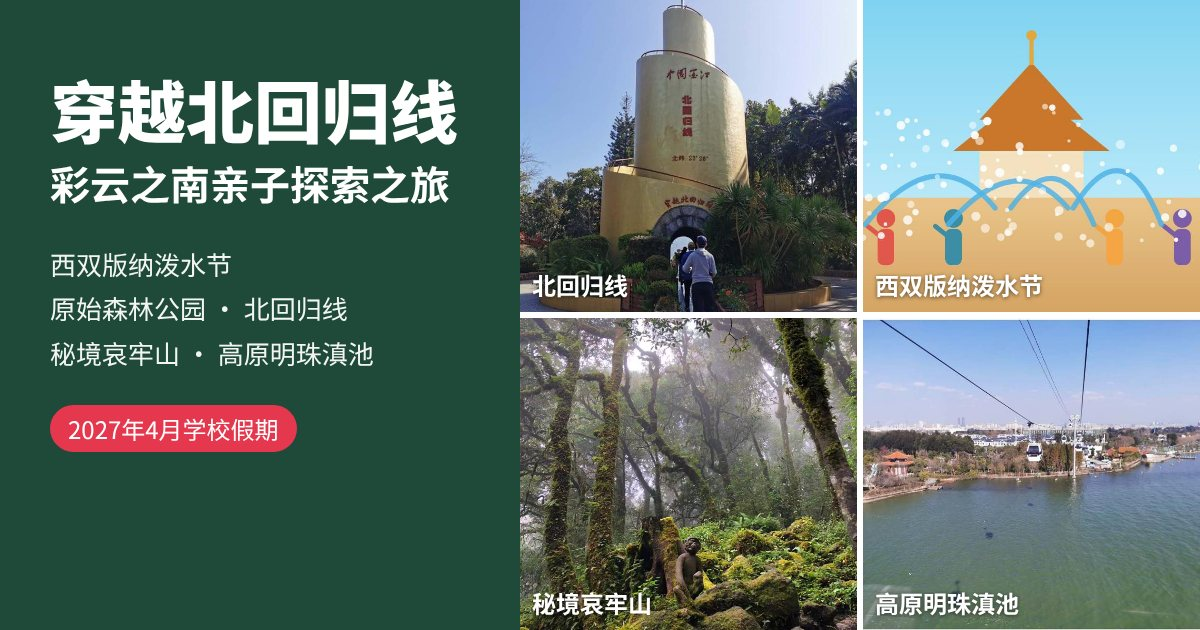
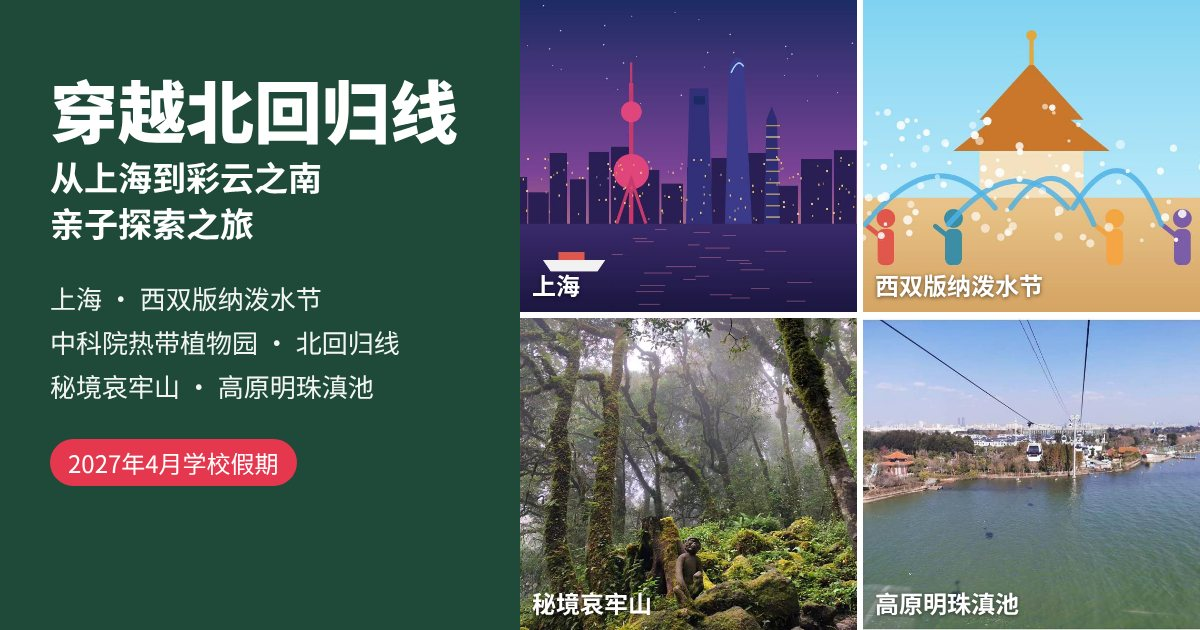
Yunnan trip v9: Shanghai 2 days, fly to Xishuangbanna, botanical garden, Kunming by Green Lake with Yangzonghai hot spring, home via Guangzhou
Claude-Session: https://claude.ai/code/session_018MHxWtUL15psGLoRzbd35R

Changed region(s): [[0.4317, 0.0, 0.74, 0.5127], [0.0308, 0.2413, 0.37, 0.7841]]

diff --git a/yunnan-mojiang-en.html b/yunnan-mojiang-en.html
@@ -3,7 +3,7 @@
 <head>
 <meta charset="utf-8">
 <meta name="viewport" content="width=device-width, initial-scale=1, viewport-fit=cover">
-<title>Crossing the Northern Tropic: Yunnan April Holiday Family Adventure · Adventures with Grace</title>
+<title>Crossing the Northern Tropic: From Shanghai to Yunnan, April Holiday Family Adventure · Adventures with Grace</title>
 <style>
 :root{--bg:#f6f7f4;--card:#fff;--text:#1d2420;--sub:#66706a;--accent:#2f7d5b;--accent-t:#fff;--line:#e3e7e2;box-sizing:border-box;padding-top:env(safe-area-inset-top,0px);padding-bottom:env(safe-area-inset-bottom,0px)}
 @media (prefers-color-scheme:dark){:root:not([data-theme="light"]){--bg:#121815;--card:#1b231f;--text:#eef2ef;--sub:#9aa7a0;--accent:#4fb88a;--accent-t:#08150f;--line:#2a352f}}
@@ -36,9 +36,9 @@ details ul{margin:6px 0 0;padding-left:18px;color:var(--sub);font-size:14px;line
 .gallery figcaption{font-size:13px;opacity:.75;margin-top:4px}
 .credit{font-size:13px;opacity:.75;margin-top:10px}
 </style>
-<meta name="description" content="April 2027 school holidays: the Water-Splashing Festival in Xishuangbanna, a rainforest trek, little farmers in Mojiang, the misty forests of the Ailao Mountains, then the Stone Forest and flower markets of Kunming.">
-<meta property="og:title" content="Crossing the Northern Tropic: Yunnan April Holiday Family Adventure · Adventures with Grace">
-<meta property="og:description" content="April 2027 school holidays: the Water-Splashing Festival in Xishuangbanna, a rainforest trek, little farmers in Mojiang, the misty forests of the Ailao Mountains, then the Stone Forest and flower markets of Kunming.">
+<meta name="description" content="April 2027 school holidays: Shanghai, the Water-Splashing Festival and Tropical Botanical Garden in Xishuangbanna, little farmers in Mojiang, the misty Ailao Mountains, the Stone Forest and a hot spring near Kunming, and dim sum in Guangzhou on the way home.">
+<meta property="og:title" content="Crossing the Northern Tropic: From Shanghai to Yunnan, April Holiday Family Adventure · Adventures with Grace">
+<meta property="og:description" content="April 2027 school holidays: Shanghai, the Water-Splashing Festival and Tropical Botanical Garden in Xishuangbanna, little farmers in Mojiang, the misty Ailao Mountains, the Stone Forest and a hot spring near Kunming, and dim sum in Guangzhou on the way home.">
 <meta property="og:image" content="https://graceleizhang.github.io/grace-events/yunnan-mojiang-cover.jpg">
 <meta property="og:url" content="https://graceleizhang.github.io/grace-events/yunnan-mojiang-en.html">
 <meta property="og:type" content="website">
@@ -47,11 +47,11 @@ details ul{margin:6px 0 0;padding-left:18px;color:var(--sub);font-size:14px;line
 <div style="display:none"><img src="https://graceleizhang.github.io/grace-events/yunnan-mojiang-thumb.jpg" alt=""></div>
 <main>
   <p>Adventures with Grace</p>
-  <h1>Crossing the Northern Tropic<br>Yunnan April Holiday Family Adventure 🌈</h1>
-  <p style="font-weight:700;color:var(--accent);margin-bottom:8px">April 2027 school holidays · Xishuangbanna Water Festival · Primeval Forest Park · Northern Tropic · the mysterious Ailao Mountains · Dian Lake, Pearl of the Plateau</p>
-  <p>Head north from the rainforests of Xishuangbanna, cross the Northern Tropic (23.5°N, where the summer sun shines straight overhead) in Mojiang and finish in Kunming, the City of Eternal Spring 🧭<br>Take the kids to a real Dai New Year Water-Splashing Festival in Xishuangbanna, China. No need to fight over water pistols: the whole city is the battlefield, and the wetter you get, the more blessings you receive 💦<br>Trek through the Jinuo Mountain rainforest, wading up streams and swinging on vines; be little farmers in Mojiang, picking tea, catching fish and planting rice, and make friends at a local high school; then walk into the misty old-growth forest of the Ailao Mountains and see Huayao Dai embroidery. We finish in Kunming with the Stone Forest, a hot spring, grass sledding, laser tag and Asia’s biggest flower market 🌺</p>
+  <h1>Crossing the Northern Tropic<br>From Shanghai to Yunnan: April Holiday Family Adventure 🌈</h1>
+  <p style="font-weight:700;color:var(--accent);margin-bottom:8px">April 2027 school holidays · Shanghai · Xishuangbanna Water Festival · Tropical Botanical Garden (5A) · Northern Tropic · the mysterious Ailao Mountains · Dian Lake, Pearl of the Plateau</p>
+  <p>Start in Shanghai, fly south to the rainforests of Xishuangbanna, then head north, cross the Northern Tropic (23.5°N, where the summer sun shines straight overhead) in Mojiang, reach Kunming, the City of Eternal Spring, and fly home via Guangzhou 🧭<br>Go up China’s tallest building and explore the gaming and pop-culture side of Shanghai; then join a real Dai New Year Water-Splashing Festival in Xishuangbanna. No need to fight over water pistols: the whole city is the battlefield, and the wetter you get, the more blessings you receive 💦<br>Explore the Chinese Academy of Sciences’ Tropical Botanical Garden (a national 5A site) and see the rainforest from the textbooks; be little farmers in Mojiang, picking tea, catching fish and planting rice, and make friends at a local high school; then walk into the misty old-growth forest of the Ailao Mountains and see Huayao Dai embroidery. In Kunming: the Stone Forest, a hot spring, grass sledding, laser tag and Asia’s biggest flower market 🌺 And a day in Guangzhou on the way home for proper dim sum 🥟</p>
   <p style="margin-top:8px">📌 The itinerary may change slightly depending on flights, weather and local conditions; the final version will be confirmed before departure.</p>
-  <p style="margin-top:8px">🇨🇳 Friends coming from within China are welcome to meet us in Kunming.</p>
+  <p style="margin-top:8px">🇨🇳 Friends coming from within China are welcome to meet us in Shanghai, Xishuangbanna or Kunming.</p>
 
   <h2>🎨 What we’ll see</h2>
   <div class="gallery"><figure><img src="img/yunnan/p_mossforest.jpg" alt="Ailao Mountains: a moss-covered old-growth forest, straight out of a fairy tale" loading="lazy"><figcaption>Ailao Mountains: a moss-covered old-growth forest, straight out of a fairy tale 📷</figcaption></figure><figure><img src="img/yunnan/p_mj_tower.jpg" alt="The Northern Tropic! One foot in the tropics, one in the temperate zone" loading="lazy"><figcaption>The Northern Tropic! One foot in the tropics, one in the temperate zone 📷</figcaption></figure><figure><img src="img/yunnan/p_dianchi.jpg" alt="“Five hundred li of Dian Lake rush before my eyes” – from China’s longest couplet at Grand View Tower" loading="lazy"><figcaption>“Five hundred li of Dian Lake rush before my eyes” – from China’s longest couplet at Grand View Tower 📷</figcaption></figure><figure><img src="img/yunnan/p_mountain.jpg" alt="Mist drifting over the Ailao Mountains in the morning" loading="lazy"><figcaption>Mist drifting over the Ailao Mountains in the morning 📷</figcaption></figure><figure><img src="img/yunnan/p_shilin_climb.jpg" alt="The Stone Forest: a seabed 270 million years ago, now a World Heritage site" loading="lazy"><figcaption>The Stone Forest: a seabed 270 million years ago, now a World Heritage site 📷</figcaption></figure><figure><img src="img/yunnan/p_mj_slide.jpg" alt="The rainbow “flying carpet” slide – go!" loading="lazy"><figcaption>The rainbow “flying carpet” slide – go! 📷</figcaption></figure><figure><img src="img/yunnan/p_teahouse.jpg" alt="An old Tea Horse Road stop with its ancient-tree tea house" loading="lazy"><figcaption>An old Tea Horse Road stop with its ancient-tree tea house 📷</figcaption></figure><figure><img src="img/yunnan/p_sl_sky.jpg" alt="Look up: stone peaks pointing at the sky" loading="lazy"><figcaption>Look up: stone peaks pointing at the sky 📷</figcaption></figure><figure><img src="img/yunnan/splash.jpg" alt="Dai New Year: every splash is a blessing, so the wetter the better 💦 (illustration – photo to be updated)" loading="lazy"><figcaption>Dai New Year: every splash is a blessing, so the wetter the better 💦 (illustration – photo to be updated)</figcaption></figure><figure><img src="img/yunnan/p_mj_sundial.jpg" alt="Standing on the Northern Tropic – where’s your shadow?" loading="lazy"><figcaption>Standing on the Northern Tropic – where’s your shadow? 📷</figcaption></figure><figure><img src="img/yunnan/p_mj_planet.jpg" alt="Stars and the sun’s path at the planetarium" loading="lazy"><figcaption>Stars and the sun’s path at the planetarium 📷</figcaption></figure><figure><img src="img/yunnan/p_waterwheel.jpg" alt="A giant wooden waterwheel at an old caravan stop" loading="lazy"><figcaption>A giant wooden waterwheel at an old caravan stop 📷</figcaption></figure><figure><img src="img/yunnan/p_dragons.jpg" alt="Twin-dragon arches chasing a pearl" loading="lazy"><figcaption>Twin-dragon arches chasing a pearl 📷</figcaption></figure><figure><img src="img/yunnan/p_oldstreet.jpg" alt="Bixi Old Town, on the old Tea Horse Road" loading="lazy"><figcaption>Bixi Old Town, on the old Tea Horse Road 📷</figcaption></figure><figure><img src="img/yunnan/p_mj_totem.jpg" alt="Hani totem poles – each one tells a story" loading="lazy"><figcaption>Hani totem poles – each one tells a story 📷</figcaption></figure><figure><img src="img/yunnan/p_mj_street.jpg" alt="Mojiang streets: say “Hani”!" loading="lazy"><figcaption>Mojiang streets: say “Hani”! 📷</figcaption></figure><figure><img src="img/yunnan/p_mj_wenmiao.jpg" alt="Mojiang Confucian temple – a bow to Confucius before exams" loading="lazy"><figcaption>Mojiang Confucian temple – a bow to Confucius before exams 📷</figcaption></figure><figure><img src="img/yunnan/p_mj_lamp.jpg" alt="Wandering a Hani lane" loading="lazy"><figcaption>Wandering a Hani lane 📷</figcaption></figure><figure><img src="img/yunnan/p_mj_noodle.jpg" alt="A bowl of rice noodles: how Yunnan starts the day" loading="lazy"><figcaption>A bowl of rice noodles: how Yunnan starts the day 📷</figcaption></figure><figure><img src="img/yunnan/p_teatrail.jpg" alt="The Tea Horse Road in the Ailao Mountains, once walked by Pu’er tea caravans" loading="lazy"><figcaption>The Tea Horse Road in the Ailao Mountains, once walked by Pu’er tea caravans 📷</figcaption></figure><figure><img src="img/yunnan/p_tea.jpg" alt="Tea among the hills – a holiday for the grown-ups too" loading="lazy"><figcaption>Tea among the hills – a holiday for the grown-ups too 📷</figcaption></figure><figure><img src="img/yunnan/p_food.jpg" alt="Yunnan home cooking – you’ll want seconds" loading="lazy"><figcaption>Yunnan home cooking – you’ll want seconds 📷</figcaption></figure><figure><img src="img/yunnan/p_corridor.jpg" alt="Lanterns along the bamboo walkway after a long day" loading="lazy"><figcaption>Lanterns along the bamboo walkway after a long day 📷</figcaption></figure><figure><img src="img/yunnan/p_cable.jpg" alt="Flying over Dian Lake by cable car" loading="lazy"><figcaption>Flying over Dian Lake by cable car 📷</figcaption></figure><figure><img src="img/yunnan/p_shilin_gate.jpg" alt="The Stone Forest: a forest made of rock" loading="lazy"><figcaption>The Stone Forest: a forest made of rock 📷</figcaption></figure><figure><img src="img/yunnan/p_shilin_arch.jpg" alt="Through the stone arch to find “Ashima”" loading="lazy"><figcaption>Through the stone arch to find “Ashima” 📷</figcaption></figure><figure><img src="img/yunnan/p_shilin_back.jpg" alt="Narrow paths between the rocks, like a maze" loading="lazy"><figcaption>Narrow paths between the rocks, like a maze 📷</figcaption></figure></div>
@@ -60,33 +60,38 @@ details ul{margin:6px 0 0;padding-left:18px;color:var(--sub);font-size:14px;line
   <h2>Trip details</h2>
   <div class="card">
     <span class="tag">Registrations open</span>
-    <h3>🌈 Crossing the Northern Tropic: Yunnan April Holiday Family Adventure</h3>
+    <h3>🌈 Crossing the Northern Tropic: From Shanghai to Yunnan, April Holiday Family Adventure</h3>
     <p><strong>Kids:</strong> here to get soaked and muddy. Water fights, tea picking, fishing, rice planting, and a few new friends in Yunnan.<br><strong>Parents:</strong> here to watch them have the time of their lives. Routes, trains and drivers are all sorted, so you just take the photos 📸</p>
     <div class="row"><span>Dates</span><span>Depart Saturday 10 April 2027 (evening)<br>Back in Sydney Tuesday 27 April (morning)<br>During the NSW autumn school holidays (public schools return 29 April)<br>Exact times depend on flights and the group fare</span></div>
-    <div class="row"><span>Route</span><span>Kunming → Xishuangbanna → Mojiang → Ailao Mountains (Gasa) → Kunming</span></div>
+    <div class="row"><span>Route</span><span>Sydney → Shanghai → Xishuangbanna → Mojiang → Ailao Mountains (Gasa) → Kunming → Guangzhou → Sydney</span></div>
     <div class="row"><span>Group</span><span>4–5 families</span></div>
-    <div class="row"><span>Getting around</span><span>Bullet trains between cities (Kunming to Xishuangbanna is only 3.5 hours); private bus on the expressway from Mojiang to the Ailao Mountains and back to Kunming. Xishuangbanna and Kunming are arranged by Grace’s old classmate, who runs a travel agency there; Grace arranges Mojiang with local contacts</span></div>
+    <div class="row"><span>Getting around</span><span>Direct flight from Shanghai to Xishuangbanna; bullet train from Xishuangbanna to Mojiang; private bus on the expressway from Mojiang to the Ailao Mountains and back to Kunming; fly Kunming to Guangzhou, then home to Sydney. Xishuangbanna and Kunming are arranged by licensed local travel agencies; Grace arranges Mojiang with local contacts</span></div>
     <div class="row"><span>What kind of trip</span><span>Not a tour – a few families exploring together<br>Local feasts along the way, plus some free meals to eat what you like 🍽<br>No compulsory shopping stops; anyone keen on gold, silver or jade can visit a reputable shop if they wish<br>Everything at cost; Grace charges no fee</span></div>
     <details open>
       <summary>🗓 Itinerary</summary>
       <ul>
-        <li><strong>Sat 10 Apr</strong> Evening departure from Sydney, changing planes in Shanghai ✈</li>
-        <li><strong>Sun 11 Apr</strong> Afternoon arrival in Kunming; one night there<br>🍽 Crossing-the-bridge rice noodles – our first taste of Yunnan</li>
-        <li><strong>Mon 12 Apr</strong> Early train to Xishuangbanna; we stay near Gaozhuang<br>🍽 Free evening: graze your way around the Gaozhuang night market – leaf-wrapped grilled meats, bamboo-tube rice, pineapple rice</li>
-        <li><strong>Tue 13 Apr</strong> Festival day one: afternoon riverside market, dragon-boat races and bamboo rockets, then thousands of sky lanterns and river lanterns at night 🏮<br>🍽 Dai home cooking</li>
-        <li><strong>Wed 14 Apr</strong> Menglun Tropical Botanical Garden – China’s largest, with nearly 10,000 tropical plants in palm, banyan and dragon-blood-tree gardens 🌴 Afternoon at the Primeval Forest Park: peacocks taking flight 🦚, a waterfall, an Aini village and ethnic dances, plus a jungle zipline for the brave. At dusk, dress up in Dai clothes for photos at the Golden Pagoda<br>🍽 <b>Peacock Feast</b>: a Dai banquet laid out on banana leaves like a peacock’s tail – lemongrass fish, Dai roast chicken, purple rice (no peacocks involved 😄)</li>
-        <li><strong>Thu 15 Apr</strong> Festival day: the river water-collecting and Buddha-bathing ceremonies in the morning, then the whole city gets splashed 💦 Afternoon at the Dai Ethnic Garden for a village-style water fight<br>🍽 Home-style Dai lunch after the splashing</li>
-        <li><strong>Fri 16 Apr</strong> Jinuo Mountain rainforest trek: 4.5 km of wading up streams and rock-hopping across rivers, with a guide clearing the way with a machete and pointing out rainforest creatures such as giant orb spiders and firefly larvae 🌿 Swing on vines above the stream, drink water from a jungle vine and try banana-stem snacks<br>🍽 <b>Rainforest feast</b>: soup in bamboo cups and dishes on banana leaves – ants, flowers and dew for the brave 🐜</li>
-        <li><strong>Sat 17 Apr</strong> Early train to Mojiang; afternoon spring tea picking and fishing in a muddy pond 🐟<br>🍽 <b>Hani village feast</b>: Mojiang purple rice, plus the fish we caught that day; then dance around a bonfire with our Hani hosts 🔥</li>
+        <li><strong>Sat 10 Apr</strong> Evening departure from Sydney (China Eastern, 9:30 pm) ✈</li>
+        <li><strong>🏙 Shanghai: tech, gaming and Chinese pop culture</strong></li>
+        <li><strong>Sun 11 Apr</strong> Old Shanghai and neon nights: land early and rest at the hotel. In the afternoon, go up to the 118th-floor observation deck of Shanghai Tower, China’s tallest building, for views over the Huangpu River 🏙 At dusk, take the 2-yuan ferry across to the Bund to watch the old waterfront light up, then stroll Nanjing Road and try the latest tech at the Apple and Huawei flagship stores<br>🍽 Free meal</li>
+        <li><strong>Mon 12 Apr</strong> Chinese pop culture and anime: morning at Yu Garden, which often has game-themed stamp trails – the kids go treasure-hunting with a map while the adults admire the architecture and eat Nanxiang soup dumplings 🥟 Afternoon at Bailian ZX, a whole building of anime, figurines, trading cards and VR games 🎮 Dinner in the lanes of Xintiandi or Tianzifang<br>🍽 Free meal</li>
+        <li><strong>🐘 Xishuangbanna: the Water Festival</strong></li>
+        <li><strong>Tue 13 Apr</strong> Ride the Maglev to Pudong Airport at 300 km/h 🚄 then fly direct to Xishuangbanna. We stay right next to Water-Splashing Square. In the evening, release sky lanterns by the Lancang River and browse the Gaozhuang night market 🏮<br>🍽 Free evening at the night market – leaf-wrapped grilled meats, bamboo-tube rice, pineapple rice</li>
+        <li><strong>Wed 14 Apr</strong> Morning at Wild Elephant Valley to see Asian elephants 🐘 Afternoon at the Primeval Forest Park to watch the peacocks take flight 🦚, and dress up in Dai clothes for photos<br>🍽 <b>Peacock Feast</b>: a Dai banquet laid out on banana leaves like a peacock’s tail – lemongrass fish, Dai roast chicken, purple rice (no peacocks involved 😄)</li>
+        <li><strong>Thu 15 Apr</strong> Festival day 💦 At dawn, the river water-collecting ceremony: young women draw holy water from the Mother River and the blessings begin. Then step outside into Water-Splashing Square and join the whole city for a day-long water fight!<br>🍽 Dai home cooking after the splashing</li>
+        <li><strong>Fri 16 Apr</strong> The Chinese Academy of Sciences’ Xishuangbanna Tropical Botanical Garden (a national 5A site): the poisonous “arrow-poison tree”, giant water lilies strong enough to hold a child, dancing grass and strangler figs – the rainforest from the textbooks 🌿 It’s huge, so we ride the electric carts<br>🍽 Free meal</li>
+        <li><strong>🌾 Mojiang · 🌲 Ailao Mountains</strong></li>
+        <li><strong>Sat 17 Apr</strong> Early bullet train to Mojiang (the only train of the trip); afternoon spring tea picking and fishing in a muddy pond 🐟<br>🍽 <b>Hani village feast</b>: Mojiang purple rice, plus the fish we caught that day; then dance around a bonfire with our Hani hosts 🔥</li>
         <li><strong>Sun 18 Apr</strong> Rice planting; a costume workshop to see embroidery, batik and tie-dye, and tie-dye your own handkerchief 🎨; the Northern Tropic park, with its rainbow “flying carpet” slide and planetarium ☀ Then a sip from the <b>Twins Well</b> – legend says it brings twins 😄<br>🍽 <b>Twins Feast</b>: Mojiang is the “City of Twins”, and every May Day it hosts an international twins festival with more than a thousand pairs of twins from around the world 👯 One day we’ll come back for it!</li>
         <li><strong>Mon 19 Apr</strong> Morning visit to a local high school (see below) 🤝 After lunch, a short hop to <b>Bixi Old Town</b> for a stroll along an old Tea Horse Road street, then the private bus on the expressway to Gasa, at the foot of the Ailao Mountains (about 2 hours)<br>🍽 Free evening meal</li>
         <li><strong>Tue 20 Apr</strong> Ailao Mountains: walk into misty old-growth forest draped in moss, like a fairy tale 🌲 See a waterfall, visit a Huayao Dai village and their heritage embroidery<br>🍽 <b>Huayao Dai feast</b></li>
-        <li><strong>Wed 21 Apr</strong> Morning at the Longxi family manor, then back to Kunming (about 3 hours)<br>🍽 <b>Steam-pot chicken</b></li>
-        <li><strong>Thu 22 Apr</strong> Old Kunming: Green Lake Park → Yunnan Military Academy (where future marshals Zhu De and Ye Jianying studied) → the former campus of Southwest Associated University, China’s famous wartime university → the old streets<br>🍽 Old Kunming street food: <b>erkuai rice cakes</b> and tofu-pudding rice noodles</li>
-        <li><strong>Fri 23 Apr</strong> Western Hills, Dian Lake and Grand View Tower: the Dragon Gate cliff path in the morning, then Grand View Tower to see the “longest couplet in China” – 180 characters. Which kid can memorise it? 😄<br>🍽 <b>Mushroom feast</b></li>
-        <li><strong>Sat 24 Apr</strong> Stone Forest, then a night at a hot-spring hotel ♨<br>🍽 Yiliang roast duck on the way</li>
-        <li><strong>Sun 25 Apr</strong> Morning grass sledding and outdoor laser tag in the hills 🎯 Not your thing? Visit the <b>Yunnan Provincial Museum</b> and its ancient Dian bronzes instead. Dounan Flower Market in the evening 🌺<br>🍽 <b>Flower Feast</b>: dishes cooked with edible flowers – and flower cakes to take home</li>
-        <li><strong>Mon 26 Apr</strong> Midday flight from Kunming via Shanghai</li>
+        <li><strong>Wed 21 Apr</strong> Morning at the Longxi family manor, then back to Kunming (about 3 hours); we stay by Green Lake<br>🍽 <b>Steam-pot chicken</b></li>
+        <li><strong>🌸 Kunming (staying by Green Lake)</strong></li>
+        <li><strong>Thu 22 Apr</strong> Old Kunming: Green Lake Park → Yunnan Military Academy (where future marshals Zhu De and Ye Jianying studied) → the former campus of Southwest Associated University, China’s famous wartime university – all within walking distance. Afternoon at Grand View Tower to see the “longest couplet in China” – 180 characters. Which kid can memorise it? 😄<br>🍽 Old Kunming street food: <b>erkuai rice cakes</b> and tofu-pudding rice noodles</li>
+        <li><strong>Fri 23 Apr</strong> The Stone Forest: a seabed 270 million years ago, now a forest of rock 🪨 On the way back, soak in a hot spring at Yangzonghai Lake ♨, then back to Green Lake for the night<br>🍽 <b>Yiliang roast duck</b></li>
+        <li><strong>Sat 24 Apr</strong> The Dragon Gate cliff path in the Western Hills, looking over Dian Lake; afternoon at Dounan Flower Market 🌺<br>🍽 <b>Flower Feast</b>: dishes cooked with edible flowers – and flower cakes to take home</li>
+        <li><strong>Sun 25 Apr</strong> Morning grass sledding and outdoor laser tag in the hills 🎯 Not your thing? Visit the <b>Yunnan Provincial Museum</b> and its ancient Dian bronzes instead. Evening flight to Guangzhou<br>🍽 <b>Mushroom feast</b> for lunch</li>
+        <li><strong>🥟 Guangzhou</strong></li>
+        <li><strong>Mon 26 Apr</strong> Morning dim sum 🫖, then Shamian Island and the Chen Clan Ancestral Hall in the old Lingnan city; at dusk, the Pearl River and Canton Tower. 9 pm flight home to Sydney</li>
         <li><strong>Tue 27 Apr</strong> Back in Sydney in the morning. NSW public schools return on Thursday 29 April, so there are two days to rest</li>
         <li>The itinerary may change slightly depending on flights, weather and local conditions; the final version will be confirmed before departure</li>
       </ul>
@@ -127,6 +132,7 @@ details ul{margin:6px 0 0;padding-left:18px;color:var(--sub);font-size:14px;line
       <ul>
         <li>Passports must be valid for at least 6 months; we need passport details to book the group fare</li>
         <li>Australian passport holders can currently visit China visa-free – please check the latest rules before departure</li>
+        <li>Families travelling on Chinese or other passports, please check your own visa and Australian re-entry documents</li>
         <li>Each family should take out travel insurance</li>
         <li>Xishuangbanna is hot in April, so bring sunscreen and a hat; Kunming is cool in the mornings and evenings, so pack a jacket</li>
         <li>Water Festival essentials: a waterproof phone pouch, sandals and at least two changes of clothes</li>

diff --git a/yunnan-mojiang.html b/yunnan-mojiang.html
@@ -3,7 +3,7 @@
 <head>
 <meta charset="utf-8">
 <meta name="viewport" content="width=device-width, initial-scale=1, viewport-fit=cover">
-<title>穿越北回归线·彩云之南亲子探索之旅 · 和 Grace 一起去体验</title>
+<title>穿越北回归线·从上海到彩云之南亲子探索之旅 · 和 Grace 一起去体验</title>
 <style>
 :root{--bg:#f6f7f4;--card:#fff;--text:#1d2420;--sub:#66706a;--accent:#2f7d5b;--accent-t:#fff;--line:#e3e7e2;box-sizing:border-box;padding-top:env(safe-area-inset-top,0px);padding-bottom:env(safe-area-inset-bottom,0px)}
 @media (prefers-color-scheme:dark){:root:not([data-theme="light"]){--bg:#121815;--card:#1b231f;--text:#eef2ef;--sub:#9aa7a0;--accent:#4fb88a;--accent-t:#08150f;--line:#2a352f}}
@@ -36,9 +36,9 @@ details ul{margin:6px 0 0;padding-left:18px;color:var(--sub);font-size:14px;line
 .gallery figcaption{font-size:13px;opacity:.75;margin-top:4px}
 .credit{font-size:13px;opacity:.75;margin-top:10px}
 </style>
-<meta name="description" content="2027年4月学校假期：西双版纳过泼水节，基诺山钻雨林，墨江当小农民，走进哀牢山云雾森林，回昆明看石林、逛花市。">
-<meta property="og:title" content="穿越北回归线·彩云之南亲子探索之旅 · 和 Grace 一起去体验">
-<meta property="og:description" content="2027年4月学校假期：西双版纳过泼水节，基诺山钻雨林，墨江当小农民，走进哀牢山云雾森林，回昆明看石林、逛花市。">
+<meta name="description" content="2027年4月学校假期：先逛上海，再去西双版纳过泼水节、逛热带植物园，墨江当小农民，走进哀牢山云雾森林，昆明看石林、泡温泉，回程在广州喝早茶。">
+<meta property="og:title" content="穿越北回归线·从上海到彩云之南亲子探索之旅 · 和 Grace 一起去体验">
+<meta property="og:description" content="2027年4月学校假期：先逛上海，再去西双版纳过泼水节、逛热带植物园，墨江当小农民，走进哀牢山云雾森林，昆明看石林、泡温泉，回程在广州喝早茶。">
 <meta property="og:image" content="https://graceleizhang.github.io/grace-events/yunnan-mojiang-cover.jpg">
 <meta property="og:url" content="https://graceleizhang.github.io/grace-events/yunnan-mojiang.html">
 <meta property="og:type" content="website">
@@ -47,11 +47,11 @@ details ul{margin:6px 0 0;padding-left:18px;color:var(--sub);font-size:14px;line
 <div style="display:none"><img src="https://graceleizhang.github.io/grace-events/yunnan-mojiang-thumb.jpg" alt=""></div>
 <main>
   <p>和 Grace 一起去体验</p>
-  <h1>穿越北回归线<br>彩云之南亲子探索之旅 🌈</h1>
-  <p style="font-weight:700;color:var(--accent);margin-bottom:8px">2027年4月学校假期 · 西双版纳泼水节 · 原始森林公园 · 北回归线 · 秘境哀牢山 · 高原明珠滇池</p>
-  <p>从西双版纳的热带雨林一路往北，在墨江跨过北回归线，再到春城昆明 🧭<br>带孩子去西双版纳过一次真正的傣历新年泼水节：不用抢水枪，全城都是你的战场，泼得越湿，祝福越多 💦<br>钻进基诺山雨林，蹚水溯溪、荡树藤；到墨江当小农民，采茶、摸鱼、插秧，和当地中学生交朋友；再走进哀牢山云雾里的原始森林，看花腰傣的非遗刺绣。最后回到昆明，看石林、泡温泉、滑草、玩真人CS，逛亚洲最大的鲜花市场 🌺</p>
+  <h1>穿越北回归线<br>从上海到彩云之南·亲子探索之旅 🌈</h1>
+  <p style="font-weight:700;color:var(--accent);margin-bottom:8px">2027年4月学校假期 · 上海 · 西双版纳泼水节 · 中科院热带植物园（5A级）· 北回归线 · 秘境哀牢山 · 高原明珠滇池</p>
+  <p>从上海出发，飞到西双版纳的热带雨林，再一路往北，在墨江跨过北回归线，到春城昆明，最后从广州回家 🧭<br>先在上海登上中国最高楼，逛国潮和二次元的上海；再去西双版纳过一次真正的傣历新年泼水节：不用抢水枪，全城都是你的战场，泼得越湿，祝福越多 💦<br>逛中科院热带植物园（5A级），看课本里的热带雨林；到墨江当小农民，采茶、摸鱼、插秧，和当地中学生交朋友；再走进哀牢山云雾里的原始森林，看花腰傣的非遗刺绣。最后到昆明看石林、泡温泉、滑草、玩真人CS，逛亚洲最大的鲜花市场 🌺 回程在广州停一天，吃顿地道早茶 🥟</p>
   <p style="margin-top:8px">📌 行程会根据航班、天气和当地实际情况有小的变动，以出发前的最终行程为准。</p>
-  <p style="margin-top:8px">🇨🇳 国内的朋友也欢迎！可以直接在昆明和我们会合。</p>
+  <p style="margin-top:8px">🇨🇳 国内的朋友也欢迎！可以在上海、版纳或昆明跟我们会合。</p>
 
   <h2>🎨 一路会看到的</h2>
   <div class="gallery"><figure><img src="img/yunnan/p_mossforest.jpg" alt="哀牢山：长满青苔的原始森林，像走进童话" loading="lazy"><figcaption>哀牢山：长满青苔的原始森林，像走进童话 📷</figcaption></figure><figure><img src="img/yunnan/p_mj_tower.jpg" alt="北回归线到了！一脚热带，一脚温带" loading="lazy"><figcaption>北回归线到了！一脚热带，一脚温带 📷</figcaption></figure><figure><img src="img/yunnan/p_dianchi.jpg" alt="“五百里滇池，奔来眼底”——大观楼天下第一长联" loading="lazy"><figcaption>“五百里滇池，奔来眼底”——大观楼天下第一长联 📷</figcaption></figure><figure><img src="img/yunnan/p_mountain.jpg" alt="云雾绕着山走，哀牢山的早晨" loading="lazy"><figcaption>云雾绕着山走，哀牢山的早晨 📷</figcaption></figure><figure><img src="img/yunnan/p_shilin_climb.jpg" alt="石林：2.7亿年前还是大海，如今是世界自然遗产" loading="lazy"><figcaption>石林：2.7亿年前还是大海，如今是世界自然遗产 📷</figcaption></figure><figure><img src="img/yunnan/p_mj_slide.jpg" alt="“飞天魔毯”彩虹滑道，冲啊！📷" loading="lazy"><figcaption>“飞天魔毯”彩虹滑道，冲啊！📷</figcaption></figure><figure><img src="img/yunnan/p_teahouse.jpg" alt="茶马古道老驿站：古树茶庄" loading="lazy"><figcaption>茶马古道老驿站：古树茶庄 📷</figcaption></figure><figure><img src="img/yunnan/p_sl_sky.jpg" alt="抬头看：石峰直插蓝天" loading="lazy"><figcaption>抬头看：石峰直插蓝天 📷</figcaption></figure><figure><img src="img/yunnan/splash.jpg" alt="傣历新年泼水节：泼的是吉祥水，越湿越有福 💦（示意图，照片待更新）" loading="lazy"><figcaption>傣历新年泼水节：泼的是吉祥水，越湿越有福 💦（示意图，照片待更新）</figcaption></figure><figure><img src="img/yunnan/p_mj_sundial.jpg" alt="站上北回归线，找找自己的影子" loading="lazy"><figcaption>站上北回归线，找找自己的影子 📷</figcaption></figure><figure><img src="img/yunnan/p_mj_planet.jpg" alt="天文馆里认星星，看太阳怎么“走路”" loading="lazy"><figcaption>天文馆里认星星，看太阳怎么“走路” 📷</figcaption></figure><figure><img src="img/yunnan/p_waterwheel.jpg" alt="老驿站的大水车，转了上百年" loading="lazy"><figcaption>老驿站的大水车，转了上百年 📷</figcaption></figure><figure><img src="img/yunnan/p_dragons.jpg" alt="双龙拱门，龙头抢绣球" loading="lazy"><figcaption>双龙拱门，龙头抢绣球 📷</figcaption></figure><figure><img src="img/yunnan/p_oldstreet.jpg" alt="碧溪古镇：茶马古道上的老街" loading="lazy"><figcaption>碧溪古镇：茶马古道上的老街 📷</figcaption></figure><figure><img src="img/yunnan/p_mj_totem.jpg" alt="哈尼图腾柱，一根一个故事" loading="lazy"><figcaption>哈尼图腾柱，一根一个故事 📷</figcaption></figure><figure><img src="img/yunnan/p_mj_street.jpg" alt="墨江街头：一起“哈尼”！📷" loading="lazy"><figcaption>墨江街头：一起“哈尼”！📷</figcaption></figure><figure><img src="img/yunnan/p_mj_wenmiao.jpg" alt="墨江文庙，拜拜孔子再考试" loading="lazy"><figcaption>墨江文庙，拜拜孔子再考试 📷</figcaption></figure><figure><img src="img/yunnan/p_mj_lamp.jpg" alt="哈尼小巷慢慢逛" loading="lazy"><figcaption>哈尼小巷慢慢逛 📷</figcaption></figure><figure><img src="img/yunnan/p_mj_noodle.jpg" alt="早餐一碗米线，云南人的开机键" loading="lazy"><figcaption>早餐一碗米线，云南人的开机键 📷</figcaption></figure><figure><img src="img/yunnan/p_teatrail.jpg" alt="哀牢山茶马古道：马帮驮着普洱茶走过的路" loading="lazy"><figcaption>哀牢山茶马古道：马帮驮着普洱茶走过的路 📷</figcaption></figure><figure><img src="img/yunnan/p_tea.jpg" alt="山水间喝一壶茶，大人也放个假" loading="lazy"><figcaption>山水间喝一壶茶，大人也放个假 📷</figcaption></figure><figure><img src="img/yunnan/p_food.jpg" alt="一桌云南家常菜，米饭要多添两碗" loading="lazy"><figcaption>一桌云南家常菜，米饭要多添两碗 📷</figcaption></figure><figure><img src="img/yunnan/p_corridor.jpg" alt="竹廊亮灯，玩累了慢慢走" loading="lazy"><figcaption>竹廊亮灯，玩累了慢慢走 📷</figcaption></figure><figure><img src="img/yunnan/p_cable.jpg" alt="坐缆车从滇池头顶飞过去" loading="lazy"><figcaption>坐缆车从滇池头顶飞过去 📷</figcaption></figure><figure><img src="img/yunnan/p_shilin_gate.jpg" alt="石林：一片石头长成的森林" loading="lazy"><figcaption>石林：一片石头长成的森林 📷</figcaption></figure><figure><img src="img/yunnan/p_shilin_arch.jpg" alt="钻过石桥，去找“阿诗玛”" loading="lazy"><figcaption>钻过石桥，去找“阿诗玛” 📷</figcaption></figure><figure><img src="img/yunnan/p_shilin_back.jpg" alt="石缝小路，像在走迷宫" loading="lazy"><figcaption>石缝小路，像在走迷宫 📷</figcaption></figure></div>
@@ -60,33 +60,38 @@ details ul{margin:6px 0 0;padding-left:18px;color:var(--sub);font-size:14px;line
   <h2>活动详情</h2>
   <div class="card">
     <span class="tag">报名中</span>
-    <h3>🌈 穿越北回归线·彩云之南亲子探索之旅</h3>
+    <h3>🌈 穿越北回归线·从上海到彩云之南亲子探索之旅</h3>
     <p><strong>孩子：</strong>来玩水、玩泥巴的。泼水、采茶、摸鱼、插秧，还能交几个云南的新朋友。<br><strong>家长：</strong>来看孩子玩疯的。路线、动车、包车都安排好了，你只管拍照 📸</p>
     <div class="row"><span>时间</span><span>2027年4月10日（周六）晚上出发<br>4月27日（周二）早上回到悉尼<br>正好是学校秋假（公立学校29日返校）<br>具体时间会根据航班和团购价微调</span></div>
-    <div class="row"><span>路线</span><span>昆明 → 西双版纳 → 墨江 → 哀牢山（戛洒）→ 昆明</span></div>
+    <div class="row"><span>路线</span><span>悉尼 → 上海 → 西双版纳 → 墨江 → 哀牢山（戛洒）→ 昆明 → 广州 → 悉尼</span></div>
     <div class="row"><span>人数</span><span>计划 4–5 个家庭</span></div>
-    <div class="row"><span>交通</span><span>城市之间坐动车（昆明到版纳只要3个半小时）；墨江到哀牢山、哀牢山回昆明包车走高速。版纳和昆明由我在版纳开旅行社的老同学安排，墨江由 Grace 对接当地</span></div>
+    <div class="row"><span>交通</span><span>上海直飞西双版纳；版纳到墨江坐动车；墨江到哀牢山、哀牢山回昆明包车走高速；昆明飞广州，广州飞回悉尼。版纳和昆明由当地有资质的旅行社安排，墨江由 Grace 对接当地</span></div>
     <div class="row"><span>性质</span><span>不是旅行团，是几家朋友结伴探路<br>一路安排当地特色宴，也留了几顿自由餐 🍽<br>不进强制购物店，想买金银玉的可以自愿去正规店看看<br>全部按成本价，Grace 不收服务费</span></div>
     <details open>
       <summary>🗓 行程</summary>
       <ul>
-        <li><strong>4/10（六）</strong>晚上悉尼出发，上海转机 ✈</li>
-        <li><strong>4/11（日）</strong>下午抵达昆明，住一晚<br>🍽 过桥米线，云南第一口</li>
-        <li><strong>4/12（一）</strong>早班动车到西双版纳，住告庄西双景附近<br>🍽 晚上自由餐：告庄星光夜市，包烧、香竹饭、菠萝饭，想吃什么自己挑</li>
-        <li><strong>4/13（二）</strong>泼水节第一天：下午去澜沧江边赶摆，看龙舟赛和放高升，晚上万人放孔明灯和水灯 🏮<br>🍽 傣家饭</li>
-        <li><strong>4/14（三）</strong>勐仑热带植物园：全国最大、物种最多的植物园，近万种热带植物，棕榈园、榕树园、龙血树园随便逛 🌴 下午原始森林公园：看孔雀放飞 🦚、九龙瀑布、爱伲山寨和民族歌舞，胆大的可以玩丛林飞跃。傍晚换上傣族衣服在大金塔拍照<br>🍽 <b>孔雀宴</b>：芭蕉叶上摆成孔雀开屏，香茅草烤鱼、傣味烤鸡、紫米饭（不是吃孔雀哈 😄）</li>
-        <li><strong>4/15（四）</strong>泼水节正日子：上午看澜沧江取水和浴佛仪式，然后全城开泼 💦 下午去傣族园，体验村寨里的泼水<br>🍽 傣家农家饭，泼完水坐下来吃</li>
-        <li><strong>4/16（五）</strong>基诺山雨林穿越：全程4.5公里，蹚水溯溪、摸石头过河，领队拿砍刀开路，一路讲解人面蜘蛛、萤火虫幼虫这些雨林动植物 🌿 坐在溪水上方的树藤上荡一荡，渴了喝扁担藤里的水，饿了尝芭蕉心<br>🍽 <b>雨林大餐</b>：竹杯盛汤，饭菜摆在芭蕉叶上，吃蚂蚁、吃花朵、喝露水，敢不敢试？🐜</li>
-        <li><strong>4/17（六）</strong>早班动车去墨江，下午茶园采春茶、泥塘摸鱼 🐟<br>🍽 <b>哈尼山寨饭</b>：墨江紫米饭，自己摸的鱼当晚下锅；饭后围着篝火跟哈尼乡亲一起跳舞 🔥</li>
+        <li><strong>4/10（六）</strong>晚上悉尼出发（东航，晚上9点半起飞）✈</li>
+        <li><strong>🏙 上海：科技、电竞与国潮文化漫游</strong></li>
+        <li><strong>4/11（日）</strong>海派都会与赛博夜景：清晨落地上海，先回酒店休息。下午登上海中心118层观光厅，在中国最高的楼上俯瞰黄浦江 🏙 傍晚坐2块钱的轮渡过江到外滩，看万国建筑群亮灯，再逛南京东路，进 Apple、华为旗舰店玩玩最新科技<br>🍽 自由餐</li>
+        <li><strong>4/12（一）</strong>国潮与二次元：上午逛豫园，常有国潮游戏联名的打卡集章活动，孩子们拿着地图去“寻宝”，大人看建筑、吃南翔小笼 🥟 下午去百联ZX创趣场，整栋楼都是动漫、手办、卡牌和VR游戏 🎮 晚上在新天地或田子坊吃顿弄堂晚饭<br>🍽 自由餐</li>
+        <li><strong>🐘 西双版纳：泼水节</strong></li>
+        <li><strong>4/13（二）</strong>早上坐磁悬浮去浦东机场，时速300公里体验一把 🚄 直飞西双版纳，住泼水广场旁边的酒店。晚上去澜沧江边放孔明灯，逛告庄星光夜市 🏮<br>🍽 夜市自由餐：包烧、香竹饭、菠萝饭，想吃什么自己挑</li>
+        <li><strong>4/14（三）</strong>上午野象谷看亚洲象 🐘 下午原始森林公园看孔雀放飞 🦚，换上傣族衣服拍照<br>🍽 <b>孔雀宴</b>：芭蕉叶上摆成孔雀开屏，香茅草烤鱼、傣味烤鸡、紫米饭（不是吃孔雀哈 😄）</li>
+        <li><strong>4/15（四）</strong>泼水节正日子 💦 清晨看澜沧江取水仪式：取水少女从母亲河里取来圣水，祝福从这一碗水开始。然后下楼就是泼水广场，全城开泼，玩一整天！<br>🍽 傣家饭，泼完水坐下来吃</li>
+        <li><strong>4/16（五）</strong>中科院西双版纳热带植物园（国家5A级景区）：见血封喉树、能站人的巨型王莲、会跳舞的草、会“绞杀”别的树的树，课本里的热带雨林全在这儿 🌿 园子很大，坐电瓶车走走停停<br>🍽 自由餐</li>
+        <li><strong>🌾 墨江 · 🌲 哀牢山</strong></li>
+        <li><strong>4/17（六）</strong>早班动车去墨江（全程唯一一段动车），下午茶园采春茶、泥塘摸鱼 🐟<br>🍽 <b>哈尼山寨饭</b>：墨江紫米饭，自己摸的鱼当晚下锅；饭后围着篝火跟哈尼乡亲一起跳舞 🔥</li>
         <li><strong>4/18（日）</strong>下田插秧；去民族服装工坊看刺绣、蜡染、扎染，亲手扎染一块手帕 🎨 北回归线标志园：坐“飞天魔毯”彩虹滑道，逛天文馆 ☀ 再去尝尝<b>双胞井</b>的水，传说喝了容易生双胞胎 😄<br>🍽 <b>双胞宴</b>：墨江是“双胞之城”，每年五一还有国际双胞胎节，全世界一千多对双胞胎来过节 👯 以后我们找机会专门来一趟！</li>
         <li><strong>4/19（一）</strong>上午去当地中学交朋友（见下面）🤝 午饭后先去十几分钟外的<b>碧溪古镇</b>，走一走茶马古道上的老街；再包车走高速去哀牢山脚下的戛洒（约2小时）<br>🍽 晚上自由餐</li>
         <li><strong>4/20（二）</strong>哀牢山：钻进云雾里的原始森林，满树青苔像童话世界 🌲 看瀑布，逛花腰傣村寨，看非遗刺绣<br>🍽 <b>花腰傣家宴</b></li>
-        <li><strong>4/21（三）</strong>上午陇西世族庄园，下午回昆明（约3小时）<br>🍽 <b>汽锅鸡</b></li>
-        <li><strong>4/22（四）</strong>翠湖·老昆明：翠湖 → 云南陆军讲武堂（朱德、叶剑英都在这里读过书）→ 西南联大旧址（在云南师范大学里，汪曾祺笔下的“跑警报”就在这儿）→ 老街<br>🍽 老昆明小吃：<b>饵块粑</b>、豆花米线</li>
-        <li><strong>4/23（五）</strong>西山·滇池·大观楼：上午西山龙门，俯瞰滇池；下午大观楼，看“天下第一长联”，180个字，比比谁家孩子能背下来 😄<br>🍽 <b>菌菇宴</b></li>
-        <li><strong>4/24（六）</strong>石林，晚上住温泉酒店泡温泉 ♨<br>🍽 路上吃宜良烤鸭</li>
-        <li><strong>4/25（日）</strong>上午山上滑草、野战真人CS 🎯不爱这些的，可以去<b>云南省博物馆</b>看古滇国青铜器傍晚逛斗南花市 🌺<br>🍽 <b>鲜花宴</b>：花入菜，再带鲜花饼回家</li>
-        <li><strong>4/26（一）</strong>中午从昆明起飞，上海转机</li>
+        <li><strong>4/21（三）</strong>上午陇西世族庄园，下午回昆明（约3小时），住翠湖边<br>🍽 <b>汽锅鸡</b></li>
+        <li><strong>🌸 昆明（住翠湖边）</strong></li>
+        <li><strong>4/22（四）</strong>翠湖·老昆明：翠湖 → 云南陆军讲武堂（朱德、叶剑英都在这里读过书）→ 西南联大旧址（在云南师范大学里，汪曾祺笔下的“跑警报”就在这儿），都在翠湖边，走路就到。下午去大观楼，看“天下第一长联”，180个字，比比谁家孩子能背下来 😄<br>🍽 老昆明小吃：<b>饵块粑</b>、豆花米线</li>
+        <li><strong>4/23（五）</strong>石林：2.7亿年前的海底长成了石头森林 🪨 下午回程路上在阳宗海泡温泉 ♨，晚上回翠湖<br>🍽 <b>宜良烤鸭</b></li>
+        <li><strong>4/24（六）</strong>西山龙门俯瞰五百里滇池；下午逛斗南花市 🌺<br>🍽 <b>鲜花宴</b>：花入菜，再带鲜花饼回家</li>
+        <li><strong>4/25（日）</strong>上午山上滑草、野战真人CS 🎯 不爱这些的，可以去<b>云南省博物馆</b>看古滇国青铜器。傍晚飞广州<br>🍽 中午<b>菌菇宴</b></li>
+        <li><strong>🥟 广州</strong></li>
+        <li><strong>4/26（一）</strong>上午喝早茶 🫖，逛沙面、陈家祠，看岭南老城；傍晚去珠江边看广州塔。晚上9点飞回悉尼</li>
         <li><strong>4/27（二）</strong>早上回到悉尼。公立学校29日才返校，可以休息两天</li>
         <li>以上行程会根据航班、天气和当地实际情况有小的变动，以出发前的最终行程为准</li>
       </ul>
@@ -127,6 +132,7 @@ details ul{margin:6px 0 0;padding-left:18px;color:var(--sub);font-size:14px;line
       <ul>
         <li>护照有效期要在 6 个月以上，订团体票需要护照信息</li>
         <li>澳洲护照目前去中国免签，出发前请再确认最新政策</li>
+        <li>持中国护照或其他国家护照的家庭，请各自确认签证和回澳证件</li>
         <li>每家请买好旅游保险</li>
         <li>4 月的版纳很热，带好防晒和帽子；昆明早晚凉，带件外套</li>
         <li>泼水节必备：防水手机袋、拖鞋、两套以上换洗衣服</li>

diff --git a/en.html b/en.html
@@ -101,8 +101,8 @@ details ul{margin:6px 0 0;padding-left:18px;color:var(--sub);font-size:14px;line
   </div>
   <div class="card">
     <span class="tag soon">Sneak peek</span>
-    <h3>🌈 Crossing the Northern Tropic: Yunnan April Holiday Family Adventure</h3>
-    <p>April 2027 school holidays: the Water-Splashing Festival in Xishuangbanna, little farmers in Mojiang, the misty forests of the Ailao Mountains, then the Stone Forest and flower markets of Kunming.</p>
+    <h3>🌈 Crossing the Northern Tropic: From Shanghai to Yunnan, April Holiday Family Adventure</h3>
+    <p>April 2027 school holidays: Shanghai, the Water-Splashing Festival in Xishuangbanna, little farmers in Mojiang, the misty Ailao Mountains, the Stone Forest near Kunming, and dim sum in Guangzhou on the way home.</p>
     <a class="btn" href="yunnan-mojiang-en.html">See the Yunnan trip details</a>
   </div>
 

diff --git a/index.html b/index.html
@@ -107,8 +107,8 @@ details ul{margin:6px 0 0;padding-left:18px;color:var(--sub);font-size:14px;line
   </div>
   <div class="card">
     <span class="tag soon">精彩预告</span>
-    <h3>🌈 穿越北回归线·彩云之南亲子探索之旅</h3>
-    <p>2027年4月学校假期，西双版纳过泼水节，墨江当小农民，走进哀牢山云雾森林，回昆明看石林、逛花市。</p>
+    <h3>🌈 穿越北回归线·从上海到彩云之南亲子探索之旅</h3>
+    <p>2027年4月学校假期，先逛上海，再去西双版纳过泼水节，墨江当小农民，走进哀牢山云雾森林，昆明看石林、泡温泉，回程广州喝早茶。</p>
     <a class="btn" href="yunnan-mojiang.html">查看云南活动详情</a>
   </div>
 
